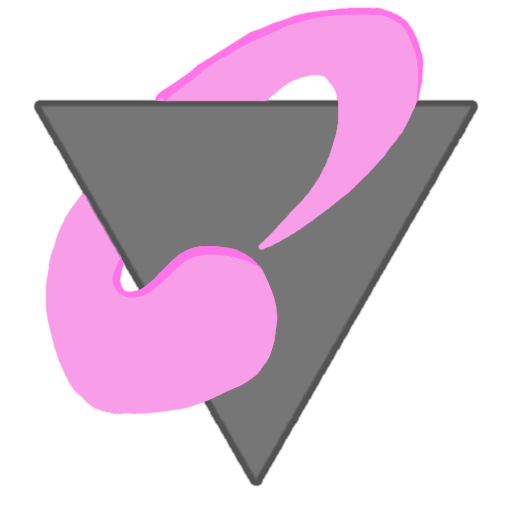
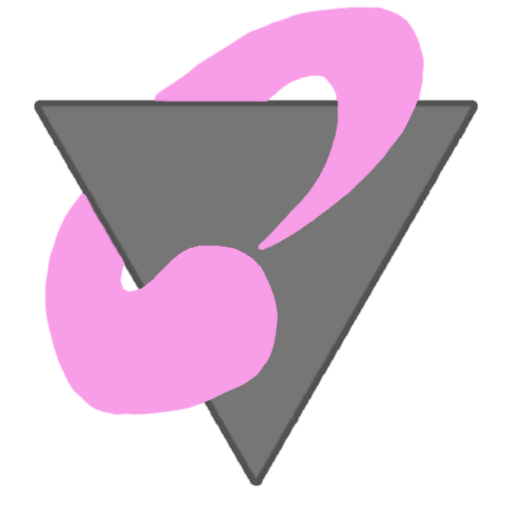
Version 5 Development
New logo.
Box UIObject.
Added a tag you can use to tell whether animation frames have been cut.

diff --git a/src/Engine/Objects/UIComponents/Box.cs b/src/Engine/Objects/UIComponents/Box.cs
@@ -1,0 +1,119 @@
+using Microsoft.Xna.Framework;
+using Microsoft.Xna.Framework.Graphics;
+using System;
+using System.Collections.Generic;
+using System.Linq;
+using System.Text;
+using System.Threading.Tasks;
+using SoulEngine.Events;
+
+namespace SoulEngine.Objects.Components
+{
+    public class Box : DrawComponent
+    {
+        #region "Declarations"
+        #region "Styles"
+        /// <summary>
+        /// Box textures.
+        /// </summary>
+        public Texture2D TopLeft;
+        public Texture2D HorizontalTop;
+        public Texture2D TopRight;
+        public Texture2D VerticalRight;
+        public Texture2D BottomRight;
+        public Texture2D HorizontalBottom;
+        public Texture2D BottomLeft;
+        public Texture2D VerticalLeft;
+        public Texture2D Fill;
+        #endregion
+        #region "Objects"
+        /// <summary>
+        /// The parent of the component but as a UIObject.
+        /// </summary>
+        private UIObject Parent
+        {
+            get
+            {
+                return (UIObject)attachedObject;
+            }
+        }
+        #endregion
+        #endregion
+
+        public override void Initialize()
+        {
+            //Check if object we are attaching to is on the UI layer.
+            if (Parent.Layer != Enums.ObjectLayer.UI) throw new Exception("Cannot attach UI component to an object not on the UI layer!");
+
+            //Default styles.
+            TopLeft = AssetManager.BlankTexture;
+            HorizontalTop = AssetManager.BlankTexture;
+            TopRight = AssetManager.BlankTexture;
+            VerticalRight = AssetManager.BlankTexture;
+            BottomRight = AssetManager.BlankTexture;
+            HorizontalBottom = AssetManager.BlankTexture;
+            BottomLeft = AssetManager.BlankTexture;
+            VerticalLeft = AssetManager.BlankTexture;
+            Fill = AssetManager.BlankTexture;
+        }
+
+        #region "Event Handlers"
+        public override void Draw()
+        {
+            //Draw top horizontal line.
+            for (int i = TopLeft.Width; i <= Parent.Width - HorizontalTop.Width; i+= HorizontalTop.Width)
+            {
+                DrawTexture(HorizontalTop, new Vector2(i, 0));
+            }
+
+            //Draw left vertical line.
+            for (int i = TopLeft.Height; i <= Parent.Height - VerticalLeft.Height; i += VerticalLeft.Height)
+            {
+                DrawTexture(VerticalLeft, new Vector2(0, i));
+            }
+
+            //Draw right vertical line.
+            for (int i = TopRight.Height; i <= Parent.Height - VerticalRight.Height; i += VerticalRight.Height)
+            {
+                DrawTexture(VerticalRight, new Vector2(Parent.Width - VerticalRight.Width, i));
+            }
+
+            //Draw bottom horizontal line.
+            for (int i = BottomLeft.Width; i <= Parent.Width - HorizontalBottom.Width; i += HorizontalBottom.Width)
+            {
+                DrawTexture(HorizontalBottom, new Vector2(i, Parent.Height - HorizontalBottom.Height));
+            }
+
+            //Draw top left corner.
+            DrawTexture(TopLeft, new Vector2(0, 0));
+
+            //Draw top right corner.
+            DrawTexture(TopRight, new Vector2(Parent.Width - TopRight.Width, 0));
+
+            //Draw bottom left.
+            DrawTexture(BottomLeft, new Vector2(0, Parent.Height - BottomLeft.Height));
+
+            //Draw bottom right.
+            DrawTexture(BottomRight, new Vector2(Parent.Width - BottomRight.Width, Parent.Height - BottomRight.Height));
+
+            //Draw fill.
+            Rectangle FillBounds = new Rectangle();
+
+            FillBounds.X = Parent.X + VerticalLeft.Width;
+            FillBounds.Y = Parent.Y + HorizontalTop.Height;
+            FillBounds.Width = Parent.Width - VerticalLeft.Width - VerticalRight.Width;
+            FillBounds.Height = Parent.Height - HorizontalBottom.Height - HorizontalTop.Height;
+
+            Draw(FillBounds.Width, FillBounds.Height, FillBounds.X, FillBounds.Y, Fill);
+
+        }
+        private void DrawTexture(Texture2D Texture, Vector2 Position)
+        {
+            Position.X += Parent.X;
+            Position.Y += Parent.Y;
+
+            Draw(Texture.Width, Texture.Height, (int) Position.X, (int) Position.Y, Texture);
+        }
+        #endregion
+    }
+}

diff --git a/src/User/Settings.cs b/src/User/Settings.cs
@@ -25,12 +25,6 @@ namespace SoulEngine
         /// </summary>
         public static bool vSync = false;
         #endregion
-        #region "Engine Settings"
-        /// <summary>
-        /// Whether networking is allowed, requires a restart.
-        /// </summary>
-        public static bool Networking = true;
-        #endregion
         #region "Security Settings"
         /// <summary>
         /// The key that will be used to encrypt and decrypt files.
@@ -126,9 +120,13 @@ namespace SoulEngine
 #endif
         #endregion
         #region "Network Settings"
+        /// <summary>
+        /// Whether networking is allowed, requires a restart.
+        /// </summary>
+        public static bool Networking = true;
         public static string IP = "";
         public static string Port = "";
-            public static int Timeout = 10;
-#endregion
+        public static int Timeout = 10;
+        #endregion
     }
 }

diff --git a/src/Engine/Objects/Components/Animation.cs b/src/Engine/Objects/Components/Animation.cs
@@ -274,6 +274,7 @@ namespace SoulEngine.Objects.Components
             {
                 RenderTarget2D tempFrame = new RenderTarget2D(Context.Graphics, (int)FrameSize.X, (int)FrameSize.Y);
                 tempFrame.Name = Spritesheet.Name + "_Frame" + i;
+                tempFrame.Tag = "notready";
 
                 frames.Add(tempFrame);
             }
@@ -315,6 +316,9 @@ namespace SoulEngine.Objects.Components
 
                 //Cut the part we need out.
                 Context.ink.Draw(Spritesheet, new Rectangle(0, 0, FrameRect.Width, FrameRect.Height), FrameRect, Color.White);
+
+                //Clear tag.
+                frames[i].Tag = null;
 
                 //Stop drawing on the composer and offload the frame to the list.
                 Context.ink.EndRenderTarget();

diff --git a/src/Engine/Objects/GameObject.cs b/src/Engine/Objects/GameObject.cs
@@ -60,6 +60,10 @@ namespace SoulEngine
         /// Whether to draw the object and its components.
         /// </summary>
         public bool Drawing = true;
+        /// <summary>
+        /// Whether to compose textures.
+        /// </summary>
+        public bool Composing = true;
         #endregion
         #region "Positional"
         /// <summary>
@@ -274,7 +278,7 @@ namespace SoulEngine
         public virtual void Compose()
         {
             //Check if drawing.
-            if (Drawing == false) return;
+            if (Composing == false) return;
 
             for (int i = 0; i < Components.Count; i++)
             {

diff --git a/src/User/Scenes/ScenePrim.cs b/src/User/Scenes/ScenePrim.cs
@@ -26,15 +26,8 @@ namespace SoulEngine
 
         public override void Start()
         {
-            AddObject("scrollbar_test", UIObject.Scrollbar());
 
-            GetObject("scrollbar_test").Size = new Vector2(100, 15);
-            GetObject("scrollbar_test").CenterObject();
 
-            AddObject("button_test", UIObject.Button());
-            GetObject("button_test").Size = new Vector2(50, 50);
-            GetObject("button_test").CenterObject();
-            GetObject("button_test").Y += 200;
         }
 
         public override void Update()

diff --git a/src/Engine/Meta/Info.cs b/src/Engine/Meta/Info.cs
@@ -16,7 +16,7 @@
         /// <summary>
         /// The version of the engine.
         /// </summary>
-        public const string Version = "2017 5 inDevelopment - 5/2/2017";
+        public const string Version = "2017 5 dev 5/5/2017";
         /// <summary>
         /// The GUID of the application. Used on windows to prevent multi-instancing.
         /// The default SoulEngine GUID - 536F756C-456E-6769-6E65-203230313700

diff --git a/src/Engine/Objects/UIObject.cs b/src/Engine/Objects/UIObject.cs
@@ -69,6 +69,17 @@ namespace SoulEngine.Objects
 
             return Object;
         }
+
+        /// <summary>
+        /// A box.
+        /// </summary>
+        public static UIObject Box()
+        {
+            UIObject Object = new UIObject();
+            Object.AddComponent(new Box());
+
+            return Object;
+        }
         #endregion
 
         #region "Helpers"
